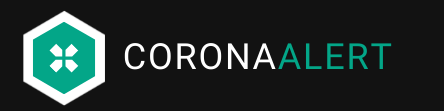
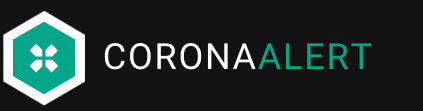
melhorias layout + inserção de dados reais

Changed region(s): [[0.0, 0.0811, 0.8913, 0.9459]]

diff --git a/lib/ui/graficos.dart b/lib/ui/graficos.dart
@@ -1,6 +1,7 @@
 import 'package:flutter/material.dart';
 import 'package:charts_flutter/flutter.dart' as charts;
 import 'package:font_awesome_flutter/font_awesome_flutter.dart';
+import 'package:intl/intl.dart';
 
 class GraficosPage extends StatefulWidget {
   final Widget child;
@@ -12,22 +13,22 @@ class GraficosPage extends StatefulWidget {
 
 class _GraficosState extends State<GraficosPage> {
   List<charts.Series<Data, String>> _seriesData;
-  List<charts.Series<Line, int>> _seriesLineData;
+  List<charts.Series<Line, num>> _seriesLineData;
 
   _generateData() {
     var data1 = [
-      Data('Casos', 40, Colors.lightBlue[200]),
-      Data('Recuperados', 30, Color(0xFF03A688)),
-      Data('Mortes', 10, Colors.red[200]),
+      Data('Casos', 2555, Colors.lightBlue[200]),
+      Data('Recuperados', 2243, Color(0xFF03A688)),
+      Data('Mortes', 50, Colors.red[200]),
     ];
 
     var linedata = [
-      Line(0, 45),
-      Line(1, 56),
-      Line(2, 55),
-      Line(3, 60),
-      Line(4, 61),
-      Line(5, 70),
+      Line(0, 2.34),
+      Line(1, 2.24),
+      Line(2, 2), //alterar
+      Line(3, 2.04),
+      Line(4, 1.96),
+      Line(5, 1.95), //alterar
     ];
 
     _seriesData.add(
@@ -60,9 +61,25 @@ class _GraficosState extends State<GraficosPage> {
     // TODO: implement initState
     super.initState();
     _seriesData = List<charts.Series<Data, String>>();
-    _seriesLineData = List<charts.Series<Line, int>>();
+    _seriesLineData = List<charts.Series<Line, num>>();
     _generateData();
   }
+
+  final customTickFormatter = charts.BasicNumericTickFormatterSpec((num value) {
+    if (value == 0) {
+      return "Jan";
+    } else if (value == 1) {
+      return "Fev";
+    } else if (value == 2) {
+      return "Mar";
+    } else if (value == 3) {
+      return "Abr";
+    } else if (value == 4) {
+      return "Maio";
+    } else if (value == 5) {
+      return "Jun";
+    }
+  });
 
   @override
   Widget build(BuildContext context) {
@@ -110,11 +127,21 @@ class _GraficosState extends State<GraficosPage> {
                     child: Column(
                       children: <Widget>[
                         Text(
-                          'COMPARAÇÃO \n\n',
+                          'COMPARAÇÃO',
                           style: TextStyle(
                             fontSize: 20.0,
                             color: Colors.white,
                           ),
+                        ),
+                        Text(
+                          '(Dados referentes ao último mês)',
+                          style: TextStyle(
+                            fontSize: 14,
+                            color: Color(0xFF03A688),
+                          ),
+                        ),
+                        SizedBox(
+                          height: 40,
                         ),
                         Expanded(
                           child: charts.BarChart(
@@ -174,8 +201,11 @@ class _GraficosState extends State<GraficosPage> {
                     child: Column(
                       children: <Widget>[
                         Text(
-                          'MORTALIDADE \n\n',
+                          'TAXA DE MORTALIDADE',
                           style: TextStyle(fontSize: 20.0, color: Colors.white),
+                        ),
+                        SizedBox(
+                          height: 40,
                         ),
                         Expanded(
                           child: charts.LineChart(_seriesLineData,
@@ -184,15 +214,17 @@ class _GraficosState extends State<GraficosPage> {
                               animate: true,
                               animationDuration: Duration(seconds: 3),
                               domainAxis: new charts.NumericAxisSpec(
-                                renderSpec: charts.GridlineRendererSpec(
+                                renderSpec: new charts.GridlineRendererSpec(
+                                  // Tick and Label styling here.
                                   labelStyle: new charts.TextStyleSpec(
                                       fontSize: 18, // size in Pts.
                                       color: charts.MaterialPalette.white),
-                                  /* lineStyle: charts.LineStyleSpec(
-                                      color: charts.MaterialPalette.white,
-                                      thickness: 1,
-                                    )*/
                                 ),
+                                tickProviderSpec:
+                                    charts.BasicNumericTickProviderSpec(
+                                  desiredTickCount: 6,
+                                ),
+                                tickFormatterSpec: customTickFormatter,
                               ),
                               primaryMeasureAxis: new charts.NumericAxisSpec(
                                   renderSpec: new charts.GridlineRendererSpec(
@@ -207,7 +239,7 @@ class _GraficosState extends State<GraficosPage> {
                               )),
                               behaviors: [
                                 charts.ChartTitle(
-                                  'Meses',
+                                  '',
                                   titleStyleSpec: charts.TextStyleSpec(
                                       color: charts.ColorUtil.fromDartColor(
                                           Colors.white)),
@@ -251,7 +283,7 @@ class Data {
 
 class Line {
   int mes;
-  int taxamort;
+  double taxamort;
 
   Line(this.mes, this.taxamort);
 }

diff --git a/lib/ui/boletim.dart b/lib/ui/boletim.dart
@@ -77,7 +77,7 @@ class BoletimPage extends StatelessWidget {
                   mainAxisAlignment: MainAxisAlignment.center,
                   children: [
                     Text(
-                      '193',
+                      '2555',
                       style: TextStyle(fontSize: 20, color: Colors.grey[100]),
                     ),
                   ],
@@ -119,7 +119,7 @@ class BoletimPage extends StatelessWidget {
                   mainAxisAlignment: MainAxisAlignment.center,
                   children: [
                     Text(
-                      '34',
+                      '50',
                       style: TextStyle(fontSize: 20, color: Colors.grey[100]),
                     ),
                   ],
@@ -161,7 +161,7 @@ class BoletimPage extends StatelessWidget {
                   mainAxisAlignment: MainAxisAlignment.center,
                   children: [
                     Text(
-                      '2%',
+                      '1.96%',
                       style: TextStyle(
                         fontSize: 20,
                         color: Colors.grey[100],
@@ -233,7 +233,7 @@ class BoletimPage extends StatelessWidget {
                           mainAxisAlignment: MainAxisAlignment.center,
                           children: [
                             Text(
-                              '193',
+                              '2555',
                               textAlign: TextAlign.center,
                               style: TextStyle(
                                 fontSize: 20,
@@ -281,7 +281,7 @@ class BoletimPage extends StatelessWidget {
                           mainAxisAlignment: MainAxisAlignment.center,
                           children: [
                             Text(
-                              '34',
+                              '50',
                               style: TextStyle(
                                 fontSize: 20,
                                 fontWeight: FontWeight.bold,
@@ -328,7 +328,7 @@ class BoletimPage extends StatelessWidget {
                           mainAxisAlignment: MainAxisAlignment.center,
                           children: [
                             Text(
-                              '2%',
+                              '1.96%',
                               style: TextStyle(
                                 fontSize: 20,
                                 fontWeight: FontWeight.bold,

diff --git a/lib/app_view.dart b/lib/app_view.dart
@@ -82,8 +82,6 @@ class _AppViewState extends State<AppView> {
           preferredSize: Size.fromHeight(60.0),
           child: AppBar(
             title: Container(
-              alignment: Alignment.center,
-              margin: EdgeInsets.fromLTRB(0, 0.0, 10.0, 0.0),
               child: Image(
                 image: AssetImage("./assets/coronaalert.png"),
                 // fit: BoxFit.fitHeight
